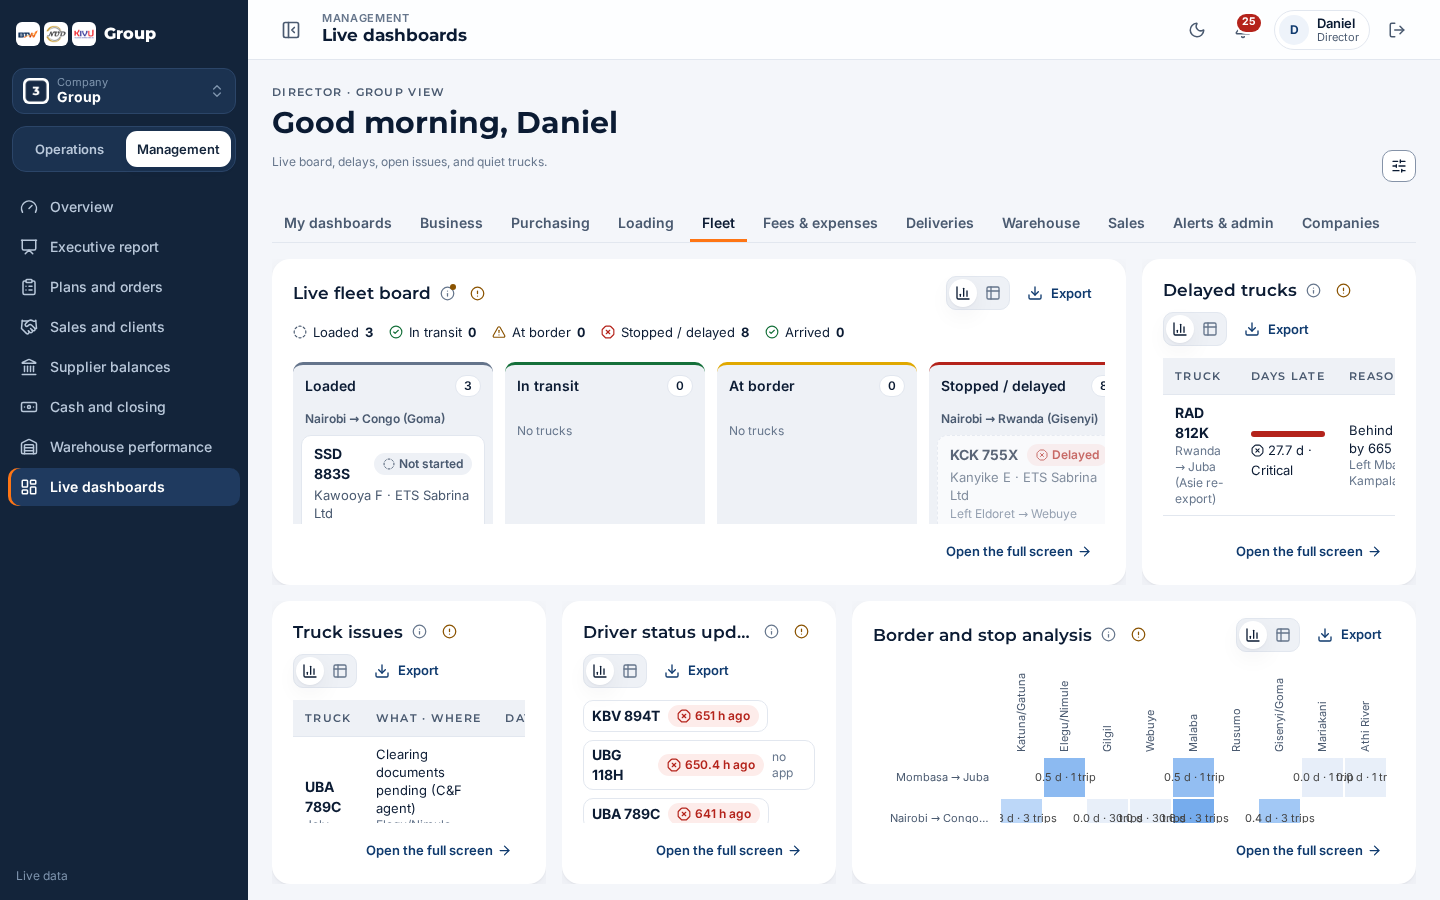
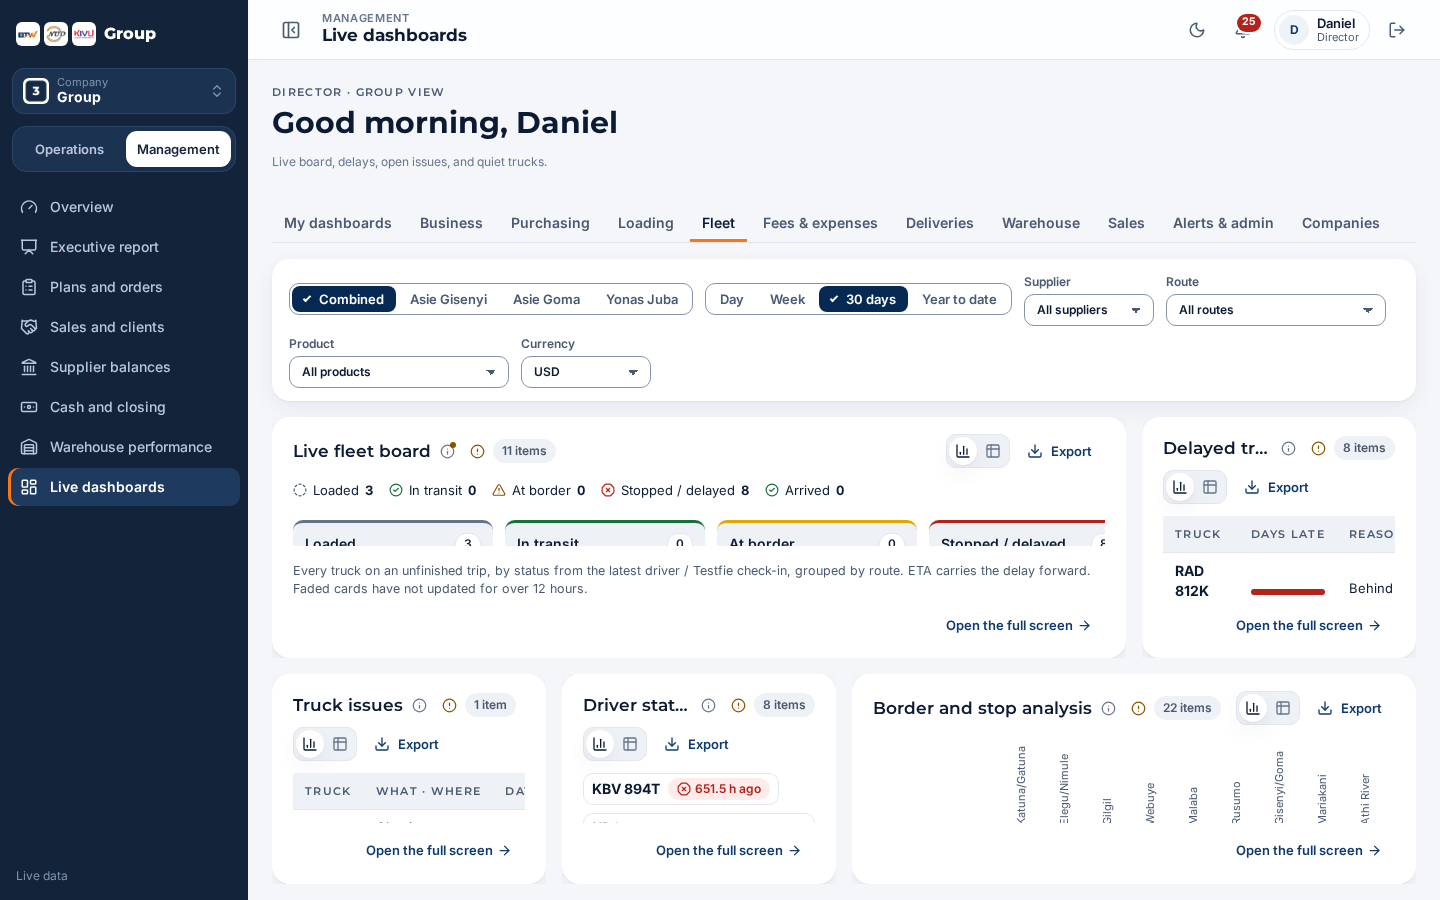
feat(v3-dashboards): Live dashboard tabs use the report layout (V3-11 LD-2 LD-3)
Warehouse and period chips, report KPI cards, item counts and the method line. Fleet still fits the screen.

diff --git a/apps/web/src/screens/dash/Filters.svelte b/apps/web/src/screens/dash/Filters.svelte
@@ -38,10 +38,15 @@
       return p ? `${p.brand} ${p.pack}` : id;
     },
   };
-  const FIELDS: { k: keyof DashFilter; o: keyof DashResponse['options']; label: string; all: string }[] = [
+  const BAR: { key: PeriodKey; label: string }[] = [
+    { key: 'today', label: 'Day' },
+    { key: '7', label: 'Week' },
+    { key: '30', label: '30 days' },
+    { key: 'ytd', label: 'Year to date' },
+  ];
+  const extra: { k: keyof DashFilter; o: keyof DashResponse['options']; label: string; all: string }[] = [
     { k: 'supplierId', o: 'suppliers', label: 'Supplier', all: 'All suppliers' },
     { k: 'routeId', o: 'routes', label: 'Route', all: 'All routes' },
-    { k: 'warehouseId', o: 'warehouses', label: 'Warehouse', all: 'All warehouses' },
     { k: 'productId', o: 'products', label: 'Product', all: 'All products' },
   ];
   const sorted = (o: keyof DashResponse['options']) => [...(options?.[o] ?? [])].sort((a, b) => name[o](a).localeCompare(name[o](b)));
@@ -63,7 +68,8 @@
 
 {#snippet fields()}
   <label>Period <select class="select" value={preset} onchange={(e) => setPreset(e.currentTarget.value as PeriodKey)}>{#each PERIODS as p}<option value={p.key}>{p.label}</option>{/each}</select></label>
-  {#each FIELDS as f}
+  <label>Warehouse <select class="select" value={filter.warehouseId ?? ''} onchange={(e) => set('warehouseId', e.currentTarget.value)}><option value="">All warehouses</option>{#each sorted('warehouses') as id}<option value={id}>{name.warehouses(id)}</option>{/each}</select></label>
+  {#each extra as f}
     {#if (options?.[f.o]?.length ?? 0) > 1 || filter[f.k]}
       <label
         >{f.label}
@@ -84,7 +90,22 @@
   </div>
 {:else}
   <div class="fbar card" role="group" aria-label="Dashboard filters">
-    {@render fields()}
+    <div class="sel-seg" role="group" aria-label="Warehouse">
+      <button type="button" aria-pressed={!filter.warehouseId} onclick={() => set('warehouseId', '')}>Combined</button>
+      {#each sorted('warehouses') as id (id)}<button type="button" aria-pressed={filter.warehouseId === id} onclick={() => set('warehouseId', id)}>{name.warehouses(id)}</button>{/each}
+    </div>
+    <div class="sel-seg" role="group" aria-label="Period">
+      {#each BAR as c (c.key)}<button type="button" aria-pressed={preset === c.key} onclick={() => setPreset(c.key)}>{c.label}</button>{/each}
+    </div>
+    {#each extra as f (f.k)}
+      {#if (options?.[f.o]?.length ?? 0) > 1 || filter[f.k]}
+        <label>{f.label}
+          <select class="select" value={filter[f.k] ?? ''} onchange={(e) => set(f.k, e.currentTarget.value)}><option value="">{f.all}</option>{#each sorted(f.o) as id}<option value={id}>{name[f.o](id)}</option>{/each}</select>
+        </label>
+      {/if}
+    {/each}
+    {#if money}<label>Currency <select class="select" value={currency.code} onchange={(e) => setCurrency(e.currentTarget.value)}>{#each CODES as c}<option>{c}</option>{/each}</select></label>{/if}
+    {#if any}<button class="btn btn-ghost btn-sm" type="button" onclick={reset}>Clear</button>{/if}
   </div>
 {/if}
 
@@ -92,7 +113,7 @@
   .fbar {
     display: flex;
     flex-wrap: wrap;
-    align-items: flex-end;
+    align-items: center;
     gap: var(--space-2) var(--space-3);
     padding: var(--space-3) var(--space-4);
     margin-top: var(--space-3);
@@ -124,11 +145,7 @@
     grid-column: 1 / -1;
     margin-top: var(--space-1);
   }
-  .fbar .scope {
-    margin-left: auto;
-    align-self: center;
-    grid-column: auto;
-  }
+  .fbar .sel-seg { flex-wrap: wrap; max-width: 100%; }
   @media (max-width: 600px) {
     .select {
       min-width: 0;
@@ -137,9 +154,6 @@
     }
     .fbar label {
       flex: 1 1 45%;
-    }
-    .fbar .scope {
-      margin-left: 0;
     }
     .embed {
       grid-template-columns: 1fr;

diff --git a/apps/web/src/screens/dash/panels/Business.svelte b/apps/web/src/screens/dash/panels/Business.svelte
@@ -2,8 +2,10 @@
   // Directors · business (docs/15): executive overview ★1, combined performance (link), profit and margin ★2, landed cost per
   // product and per truck, selling price & target margin (link + gauge), fast / slow products ★3.
   import type { DashKey, DashResult } from '@btw/api';
-  import { DashboardPanel, KpiScorecard, ExceptionList, Waterfall, StackedBarH, QuadrantScatter, type Kpi } from '../../../components/dashboard';
+  import { DashboardPanel, ExceptionList, Waterfall, StackedBarH, QuadrantScatter, type Kpi } from '../../../components/dashboard';
+  import '../../../components/dashboard/report.css';
   import { BarChart, Donut, Gauge, Meter } from '../../../components/charts';
+  import SparkArea from '../../../components/charts/SparkArea.svelte';
   import type { Ink } from '../../../components/charts/theme.svelte';
   import ColumnsLine from '../../../components/charts/ColumnsLine.svelte';
   import { compact } from '../../../components/charts/scale';
@@ -65,7 +67,19 @@
   <DashboardPanel span="full" subtitle="tap a figure to open its list" decision="Unblock delayed trucks and high-priority alerts first; then prices and stock that miss target." {...fr} title={r.title} rows={() => [...kpiRows(), ...bulletRows().slice(1), ...excRows().slice(1)]} filename="executive-overview" owner="Directors">
     <div class="exec">
       <div class="exec-main">
-        <KpiScorecard items={kpis} label="Executive overview" />
+        <div class="dash-kpis" role="list" aria-label="Executive overview">
+          {#each kpis as k (k.label)}
+            {@const c = k.change}
+            {@const dir = c?.value == null ? 0 : Math.sign(c.value)}
+            {@const good = dir === 0 ? null : (dir > 0) === (c?.upIsGood ?? true)}
+            <svelte:element this={k.href ? 'a' : 'div'} role="listitem" class="card kpi" href={k.href || undefined}>
+              <span class="lbl">{k.label}</span>
+              {#if k.value == null}<b class="val none">No data yet</b>{:else}<b class="val">{(k.format ?? ((n: number) => String(n)))(k.value)}</b>{/if}
+              <span class="sub">{#if c && c.value != null}<span class="dash-chip" class:good={good === true} class:bad={good === false}>{dir > 0 ? '▲' : dir < 0 ? '▼' : '0'} {c.kind === 'pp' ? `${Math.abs(c.value).toFixed(1)} pp` : c.kind === 'abs' ? (k.format ?? ((n: number) => String(n)))(Math.abs(c.value)) : `${(Math.abs(c.value) * 100).toFixed(1)}%`}</span>{/if} {c?.label ?? ''}</span>
+              {#if k.trend}<div class="spark"><SparkArea values={k.trend} height={30} /></div>{/if}
+            </svelte:element>
+          {/each}
+        </div>
         {#if d.bullets?.length}
           <div class="bullets">
             {#each d.bullets as b}
@@ -168,7 +182,7 @@
   .plain { margin: var(--space-2) 0 0; padding-left: 18px; }
   .exec { display: flex; flex-wrap: wrap; gap: var(--space-5); align-items: start; }
   .exec-main { flex: 1.6 1 420px; min-width: 0; display: flex; flex-direction: column; }
-  @media (min-width: 720px) { .exec-main :global(.kpis) { grid-template-columns: repeat(4, minmax(0, 1fr)); } }
+  @media (min-width: 720px) { .exec-main :global(.dash-kpis) { grid-template-columns: repeat(4, minmax(0, 1fr)); } }
   .exec-side { flex: 1 1 300px; min-width: 0; max-height: 560px; display: flex; flex-direction: column; border: 1px solid var(--border); border-radius: var(--radius-md); padding: var(--space-4); background: var(--surface-sunken); }
   .exec-side :global(.exc) { overflow: auto; min-height: 0; }
   .side-head h4 { margin: 0 0 4px; font-size: 15px; }

diff --git a/apps/web/src/screens/dash/Home.svelte b/apps/web/src/screens/dash/Home.svelte
@@ -11,8 +11,6 @@
   import { dashDef } from '@btw/api/dashboards';
   import Board from './Board.svelte';
   import Filters from './Filters.svelte';
-  import FilterPanel from './FilterPanel.svelte';
-  import SlidersHorizontal from '@lucide/svelte/icons/sliders-horizontal';
   import { DEFAULT_PERIOD, datesOf } from './period';
   import { HOME_TAB, reportKeys } from './room';
   let { user, params }: { user: User; params?: { group?: string } } = $props();
@@ -49,10 +47,6 @@
   const hrefOf = (k: string) => (k === 'mine' ? '#/' : `#/dashboards/${k}`);
   let filter = $state<DashFilter>(datesOf(DEFAULT_PERIOD));
   let options = $state<DashResponse['options'] | null>(null);
-  let filterOpen = $state(false);
-  let filtersRef = $state<{ reset: () => void }>();
-  let filterActive = $state(false);
-  let filterChip = $state('');
   const showFilterBar = $derived.by(() => {
     if (active === 'companies') return false;
     if (active === 'mine' && home.includes('director-today')) return false;
@@ -65,15 +59,9 @@
   <div><div class="overline crumb">{roleText(user.roles)}{groupView ? ' · Group view' : ''}</div>
     <h1>Good {hour < 12 ? 'morning' : hour < 18 ? 'afternoon' : 'evening'}, {user.name.split(' ')[0]}</h1>
     {#if active !== 'mine'}<p class="caption">{tabs.find((t) => t.key === active)?.blurb ?? ''}</p>{/if}</div>
-  <div class="head-actions">
+    <div class="head-actions">
     <!-- V3-11a: My dashboards puts its filter toolbar here, at the right of the greeting (lib/portal.ts) -->
     <div id="home-head-tools" class="head-tools"></div>
-    {#if showFilterBar}
-      <button type="button" class="btn btn-secondary btn-sm icon-only" aria-expanded={filterOpen} aria-label="Filters" onclick={() => (filterOpen = true)}>
-        <SlidersHorizontal size={16} aria-hidden="true" />
-      </button>
-      {#if filterActive && filterChip}<span class="fchip">{filterChip}</span>{/if}
-    {/if}
     {#if user.roles.includes('planner') && can(user, 'purchase-orders')}
       {#await import('../../components/page/ActionInCompany.svelte') then A}<A.default label="New purchase order" what="purchase order" href="#/pos/new" />{/await}
     {/if}
@@ -92,21 +80,14 @@
   <div class="card empty"><h2>No dashboards for your role yet</h2><p class="small">Use the menu to open your work.</p></div>
 {:else}
   {#key active}
+    {#if showFilterBar}<Filters bind:filter {options} money={director} />{/if}
     {#if panelKeys.length}<Board keys={panelKeys} {filter} onload={(r) => (options = r.options)} />{/if}
     {#if analysisKeys.length}{#await import('./Analysis.svelte') then An}<An.default keys={analysisKeys} {filter} {user} />{/await}{/if}
   {/key}
 {/if}
 
-{#if showFilterBar}
-  <FilterPanel bind:open={filterOpen} onClear={() => filtersRef?.reset()}>
-    <Filters bind:this={filtersRef} bind:filter bind:active={filterActive} bind:chip={filterChip} {options} money={director} embedded />
-  </FilterPanel>
-{/if}
-
 <style>
   .head-actions { display: flex; flex-wrap: wrap; align-items: center; gap: var(--space-2); }
   .head-tools { display: contents; }
-  .fchip { font-size: 12px; font-weight: 600; color: var(--text-muted); padding: 2px 10px; border-radius: var(--radius-full); border: 1px solid var(--border); background: var(--surface-sunken); }
-  .icon-only { gap: 0; padding-inline: var(--space-2); }
 </style>
 

diff --git a/apps/web/src/screens/dash/Board.svelte b/apps/web/src/screens/dash/Board.svelte
@@ -35,22 +35,12 @@ const groupLabel = (g: string) => (room && ROOM[g]) || DASH_GROUPS.find((x) => x
     const r = await dashboards.get(serverKeys, filter);
     res = r; onload?.(r);
   }, () => JSON.stringify([serverKeys, filter]));
-  // Row filling (2 columns): panels per key and full-width ones; a single panel that would sit alone takes the whole row.
-  // Keys whose panel emits two grid cells (a fragment of two cards). One card with an inner pair is still one cell.
-  const TWO = ['profit-margin', 'sales-summary'];
-  const FULL = ['exec-overview', 'fleet-board', 'alerts', 'fast-slow', 'border-stops', 'warehouse-today', 'order-this-week', 'stock-movements', 'data-completeness', 'po-pipeline'];
+  // Wide charts and opening summaries keep the whole row. Paired charts stay one column each, so a short card is not stretched.
+  const FULL = ['exec-overview', 'fleet-board', 'alerts', 'fast-slow', 'border-stops', 'warehouse-today', 'order-this-week', 'stock-movements', 'data-completeness'];
   const spans = $derived.by(() => {
     const out: Record<string, 'full' | undefined> = {};
     if (cols !== 2) return out;
-    const shown = keys.filter((k) => dashDef(k)?.client || res?.results[k]);
-    let pos = 0;
-    shown.forEach((k, i) => {
-      if (FULL.includes(k)) { pos = 0; return; }
-      const n = TWO.includes(k) ? 2 : 1;
-      const next = shown[i + 1];
-      if (n === 1 && pos === 0 && (!next || FULL.includes(next))) { out[k] = 'full'; return; }
-      pos = (pos + n) % 2;
-    });
+    for (const k of keys) if (FULL.includes(k)) out[k] = 'full';
     return out;
   });
   // V3-11 LD-1: the Fleet tab fits the screen. Board + delayed on top, issues · updates · borders below; each panel scrolls
@@ -61,7 +51,7 @@ const groupLabel = (g: string) => (room && ROOM[g]) || DASH_GROUPS.find((x) => x
   let fitH = $state(0);
   $effect(() => {
     if (!fit || !fitEl) return;
-    const size = () => { const top = fitEl!.getBoundingClientRect().top + scrollY; fitH = Math.max(560, innerHeight - top - 16); };
+    const size = () => { const room = innerHeight - fitEl!.getBoundingClientRect().top - 16; fitH = Math.max(240, room); };
     size(); addEventListener('resize', size);
     return () => removeEventListener('resize', size);
   });

diff --git a/apps/web/src/components/dashboard/DashboardPanel.svelte b/apps/web/src/components/dashboard/DashboardPanel.svelte
@@ -12,6 +12,7 @@
   import ChartIcon from '@lucide/svelte/icons/chart-column';
   import ArrowRight from '@lucide/svelte/icons/arrow-right';
   import CircleDashed from '@lucide/svelte/icons/circle-dashed';
+  import './report.css';
 
   let {
     title, subtitle = '', decision = '', definition = '', owner = '', unit = '', period = '', updatedAt, freshness = 'updated', staleAfter = 60,
@@ -46,6 +47,12 @@
   const isEmpty = $derived(ready && (empty ?? (rows ? data.length <= 1 : false)));
   const isNum = (v: unknown) => typeof v === 'number';
   const name = $derived(filename ?? title.toLowerCase().replace(/\W+/g, '-').replace(/^-|-$/g, ''));
+  const itemCount = $derived.by(() => {
+    if (!ready || isEmpty || data.length < 2) return 0;
+    const head = String(data[0]?.[0] ?? '');
+    if (head === 'Measure' || head === 'Kind') return 0;
+    return data.length - 1;
+  });
   const meta = () => ({ title, subtitle, definition, unit, period, filters: filterText, owner, freshness: updatedAt === undefined ? '' : freshnessText(updatedAt, freshness, now) });
 </script>
 
@@ -55,6 +62,7 @@
       <h3 id="{uid}-t" title={title}>{title}</h3>
       {#if infoLines.length}<InfoTip lines={infoLines} label="About {title}" mark={stale} size={15} />{/if}
       {#if decision}<InfoTip kind="alert" text={decision} label="Recommendation" size={15} />{/if}
+      {#if itemCount}<span class="dash-chip">{itemCount} {itemCount === 1 ? 'item' : 'items'}</span>{/if}
     </div>
     <div class="tools">
       {@render actions?.()}
@@ -84,6 +92,7 @@
     {:else}
       {@render children()}
     {/if}
+    {#if ready && !isEmpty && definition}<p class="dash-method">{definition}</p>{/if}
   </div>
 
   {#if drill && ready && !isEmpty}

diff --git a/apps/web/src/components/dashboard/report.css b/apps/web/src/components/dashboard/report.css
@@ -1,0 +1,12 @@
+/* Report card language from Management Overview, shared by the Live dashboard tabs. */
+.dash-kpis { display: grid; gap: 14px; grid-template-columns: repeat(auto-fit, minmax(176px, 1fr)); }
+.dash-kpis .kpi { display: flex; flex-direction: column; gap: 2px; padding: 16px; min-width: 0; color: inherit; text-decoration: none; }
+.dash-kpis .lbl { font-size: 13px; color: var(--text-muted); }
+.dash-kpis .val { font: 800 25px/1.25 var(--ff-display); font-variant-numeric: tabular-nums; margin: 2px 0 3px; }
+.dash-kpis .val.none { font: 600 16px/1.3 var(--ff-body); color: var(--text-muted); }
+.dash-kpis .sub { font-size: 12.5px; color: var(--text-muted); }
+.dash-kpis .spark { margin-top: 6px; color: var(--primary); }
+.dash-chip { display: inline-flex; flex: none; align-items: center; padding: 2px 9px; border-radius: 99px; font-size: 12px; font-weight: 600; white-space: nowrap; background: var(--surface-sunken); color: var(--text-muted); }
+.dash-chip.good { background: var(--success-subtle); color: var(--success); }
+.dash-chip.bad { background: var(--danger-subtle); color: var(--danger); }
+.dash-method { margin: var(--space-2) 0 0; font-size: 12.5px; line-height: 1.4; color: var(--text-muted); }

diff --git a/docs/work/plans/V3-11.md b/docs/work/plans/V3-11.md
@@ -31,6 +31,7 @@ The Live dashboards (Home tabs) read like the Management report: a calm grid of 
 | 26 Nov | LD-1 Fleet fits the screen | panels in a 2-column page grid | `Board.svelte` fit layout for the Fleet set: 4-column grid sized to the viewport (board ¾ + delayed; issues, updates, borders ½), each panel body `overflow: auto`, sticky table headers; tablets 2 columns, phones stacked (70vh cells). First try: the cells did not clip (row flex kept the content height) → cells became flex columns | `tests/design-v3/live-dashboards.mjs`: fits (884 / 900 px), 5 sections scroll on their own, the header and page stay put, phone stacked, no errors | ✅ |
 | 26 Nov | D-1 narrow Fleet headers | the title had no overflow rule, so it painted over the info and recommendation icons; chart, table and export stayed on that same row | `DashboardPanel.svelte`: title is one line with an ellipsis (full text on the heading), and below 460px the tools wrap onto the next row | `live-dashboards.mjs` at 1440: Delayed trucks, Truck issues and Driver status updates are one line, icons do not intersect the title, tools sit on the next row | ✅ |
 | 26 Nov | Border heatmap labels | nine long stop names drawn in a straight line across a half-width card | `Heatmap.svelte`: ticks drop the country note and the words border / weighbridge, then turn vertical when there are many columns; the chart grows so the rows are not clipped | `live-dashboards.mjs`: 9 labels (Katuna/Gatuna … Athi River), 0 overlaps | ✅ |
+| 26 Nov | LD-2 / LD-3 report layout on the other tabs | feature tabs used a filter icon and stretched a lone card across the row; Business KPIs did not match the report cards | `report.css` plus the warehouse and period bar on every feature tab; Business KPIs use the report card (label, value, change chip, spark); each card shows an items chip and the method at the bottom; a short card stays one column. Fleet still fits the screen | `live-dashboards.mjs`: Fleet still fits; Business, Purchasing, Loading, Fees, Deliveries, Warehouse, Sales and Alerts each show the bar, cards and method text, with no page errors. Week and a warehouse chip both select | ✅ |
 
 ## Screenshots
 | Screen | Before | After |
@@ -41,12 +42,16 @@ The Live dashboards (Home tabs) read like the Management report: a calm grid of 
 | Border heatmap | `docs/work/shots/V3-11/heatmap-before-light.png` | `docs/work/shots/V3-11/heatmap-after-light.png`, `heatmap-after-dark.png` |
 | Driver status updates | (title ran into the icons) | `docs/work/shots/V3-11/updates-after-light.png` |
 | Fleet, phone | - | `docs/work/shots/V3-11/fleet-after-phone.png` |
+| Business | (filter icon, old KPI tiles) | `docs/work/shots/V3-11/tab-business.png`, `tab-business-dark.png` |
+| Purchasing | (filter icon) | `docs/work/shots/V3-11/tab-purchasing.png`, `tab-purchasing-dark.png` |
+| Sales | (filter icon) | `docs/work/shots/V3-11/tab-sales.png` |
+| Other tabs | - | `docs/work/shots/V3-11/tab-loading.png`, `tab-fees.png`, `tab-deliveries.png`, `tab-warehouse.png`, `tab-admin.png` |
 
 ## Handover
-- **Last commit:** `6212142` merge of `v3/V3-11-fleet-headers` into `design-v3` (headers + heatmap labels).
-- **Done:** V3-11a, LD-1, narrow-card headers (D-1 on Fleet), border heatmap column labels.
+- **Last commit:** report layout on the other Live dashboard tabs, branch `v3/V3-11-report-layout`.
+- **Done:** V3-11a, LD-1, narrow Fleet headers, heatmap labels, LD-2 / LD-3 (report bar, KPI cards, paired grid, chips, method text). Fleet fit kept.
 - **Half-done:** nothing.
-- **Next step:** LD-2 / LD-3 in progress. Shared report styles, the warehouse and period bar, KPI cards on Business, chips and the method line on each card, paired grid. Fleet fit stays.
-- **Run first:** `node tests/design-v3/live-dashboards.mjs http://localhost:5242/ docs/work/shots/V3-11` (preview: `pnpm --filter @btw/web exec vite --mode live --port 5242 --strictPort --host` in `../btw-gd-V3-11`).
-- **Failing checks:** none from these two fixes. `pnpm check:text`, `pnpm check`, `pnpm build` and `pnpm size` pass (web 111.5 KB, field 84.9 KB). `plans.test.ts` still exits 1 on the three BUG-1 lines (over-plan mark, Kivu plan link, over-plan PO issued). `metrics.test.ts` still fails BUG-2 (`needs attention: Inventory page 8 = stock report 9`). Both are on unchanged `design-v3` and are not in these files.
+- **Next step:** none on this row. V3-10 continues with Supplier balances.
+- **Run first:** `node tests/design-v3/live-dashboards.mjs http://localhost:5242/ docs/work/shots/V3-11`
+- **Failing checks:** none from this row. `plans.test.ts` still exits 1 on the three BUG-1 lines. `metrics.test.ts` still fails BUG-2 (`needs attention: Inventory page 8 = stock report 9`). Both are on unchanged `design-v3` and are not in these files.
 - **Open questions:** none.
